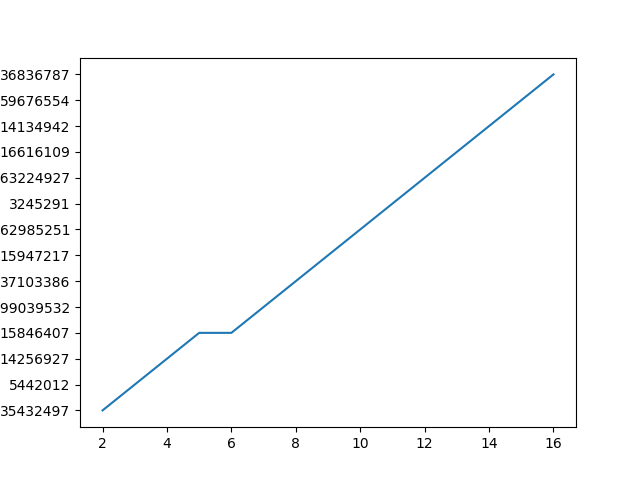
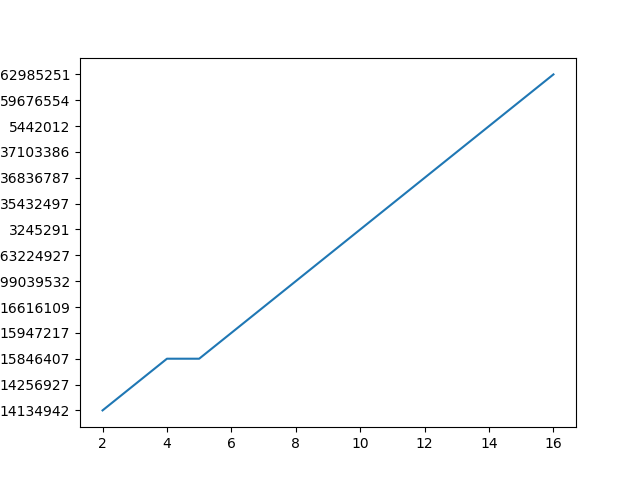
updated graphs

diff --git a/graph_plot.py b/graph_plot.py
@@ -8,7 +8,7 @@ y1 = []
 x2 = []
 y2 = []
 
-file1 = open('output/output_graph/twitter_combined_WC_maxdegree_15_50_1487723611282_1682961489163.txt', 'r')
+file1 = open('output/output_graph/twitter_combined_WC_discountdegree_15_50_1487723611282_1682961523703.txt', 'r')
 Lines = file1.readlines()
 
 count = 0
@@ -19,6 +19,7 @@ for line in Lines:
     lines = [i for i in line.split(", ")]
     if len(lines) == 1:
         continue
+    
 
     x2.append(count)
     y2.append(lines[0])
@@ -29,8 +30,11 @@ for line in Lines:
     x1.append(x)
     y1.append(y)
 
+y1.sort()
 plt.scatter(x1, y1)
 plt.show()
 
+
+y2.sort()
 plt.plot(x2, y2)
 plt.show()
